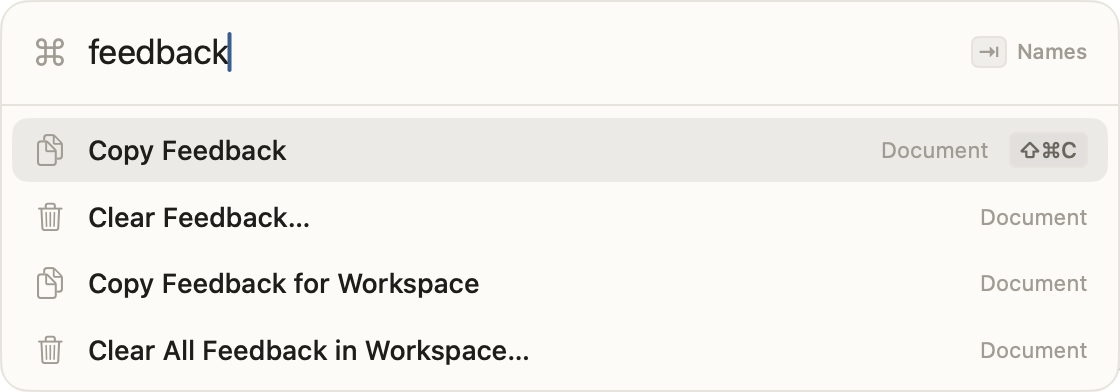
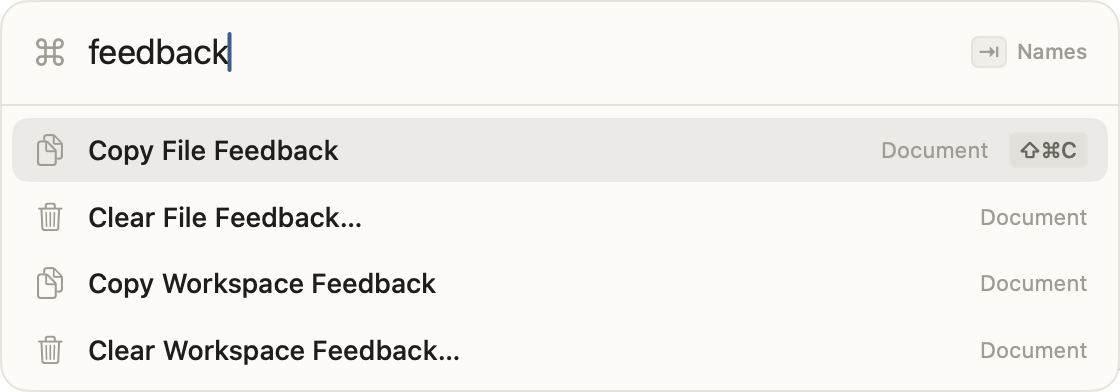
fix(app): fuzzy matching finds the whole word, not an earlier start
Matching greedily from the first place the query's first letter appears
spent "feedback" on the "Fe" of "File Feedback" and ranked it below
"Workspace Feedback". Every starting place is tried and the best kept.
The website's actions picture is re-shot with the new names.

diff --git a/app/Galley/Interface/QuickOpen.swift b/app/Galley/Interface/QuickOpen.swift
@@ -8,8 +8,16 @@ nonisolated enum Fuzzy {
         guard !needle.isEmpty else { return 0 }
         let haystack = Array(text.lowercased())
         let original = Array(text)
+        // Matching from the first place the first letter appears can spend
+        // the query on the wrong word ("feedback" on the "Fe" of "File
+        // Feedback"): every starting place is tried, and the best kept.
+        let starts = haystack.indices.filter { haystack[$0] == needle[0] }
+        return starts.compactMap { score(needle, in: haystack, original: original, from: $0) }.max()
+    }
+
+    private static func score(_ needle: [Character], in haystack: [Character], original: [Character], from start: Int) -> Int? {
         var score = 0
-        var index = 0
+        var index = start
         var previous = -2
         for character in needle {
             var found: Int?

diff --git a/app/GalleyTests/GalleyTests.swift b/app/GalleyTests/GalleyTests.swift
@@ -213,6 +213,15 @@ struct FuzzyTests {
     @Test func rejectsMissingCharacters() {
         #expect(Fuzzy.score("xyz", in: "Auth migration plan") == nil)
     }
+
+    /// The whole word wins over letters picked up from an earlier one.
+    @Test func prefersTheWholeWordOverAnEarlierStart() {
+        let file = Fuzzy.score("feedback", in: "Copy File Feedback")
+        let workspace = Fuzzy.score("feedback", in: "Copy Workspace Feedback")
+        #expect(file != nil)
+        #expect(workspace != nil)
+        #expect(file! > workspace!)
+    }
 }
 
 struct PerformanceTests {

diff --git a/notes/changelog.md b/notes/changelog.md
@@ -26,6 +26,9 @@ otherwise have to re-derive. Not worth one: typo fixes and formatting.
 
 ## 2026-11-02
 
+- Fuzzy matching tries every starting place, so a query that names a whole
+  word finds it rather than letters of an earlier one ("feedback" ranks Copy
+  File Feedback first)
 - The palette keeps the page's selection as it opens and puts it back as it
   closes (WebKit clears it when the field takes the keys), so its Highlight
   and Add Note work; both are listed only when there is a selection.
